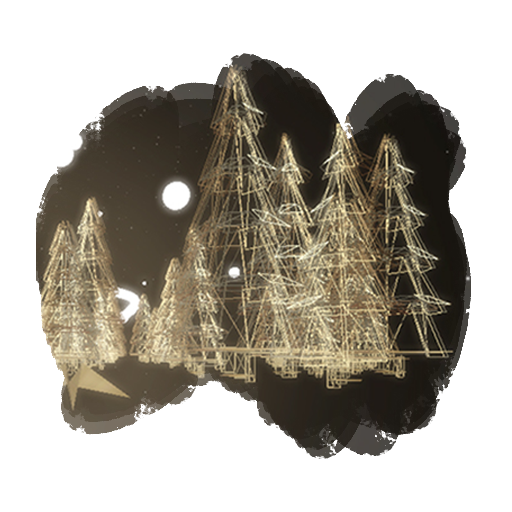
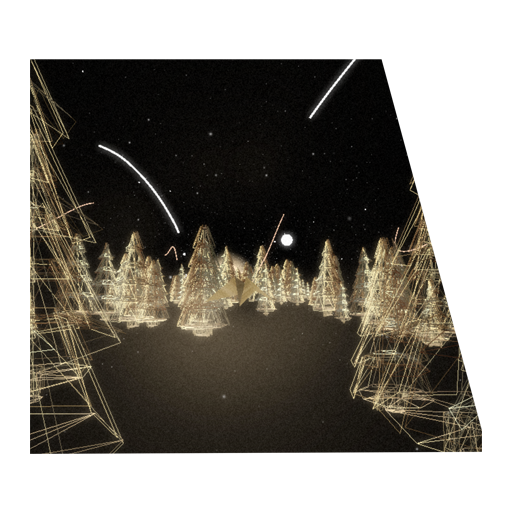
Updates

diff --git a/src/views/desktop/ProjectView/index.js b/src/views/desktop/ProjectView/index.js
@@ -31,6 +31,7 @@ export default class DesktopProjectView {
       link: this._el.querySelector('.js-project__link'),
       close: this._el.querySelector('.js-project__close'),
       loading: this._el.querySelector('.js-project__loading'),
+      back: this._el.querySelector('.js-project__back'),
       medias: [],
     };
 
@@ -47,11 +48,13 @@ export default class DesktopProjectView {
     this._easing = 0.2;
 
     this._needsUpdate = false;
+    this._backShowed = false;
 
     this._setupEvents();
   }
 
   _setupEvents() {
+    this._ui.back.addEventListener('click', this._onBackClick);
     Signals.onResize.add(this._onResize);
     Signals.onScrollWheel.add(this._onScrollWheel);
   }
@@ -266,6 +269,11 @@ export default class DesktopProjectView {
   // Events --------------------------------------------------------------------
 
   @autobind
+  _onBackClick() {
+    States.router.navigateTo(pages.HOME);
+  }
+
+  @autobind
   _onResize(vw, vh) {
     this.resize(vw, vh);
   }
@@ -292,6 +300,36 @@ export default class DesktopProjectView {
 
       this._deltaTargetY -= event.deltaMode === 1 ? event.deltaY * 20 : event.deltaY * 0.5;
       this._deltaTargetY = Math.max( -max, Math.min( 0, this._deltaTargetY ) );
+
+      if (Math.abs(max) - Math.abs(this._deltaTargetY) < 300 && !this._backShowed) {
+        this._ui.back.style.display = 'block';
+        TweenLite.killTweensOf(this._ui.back);
+        TweenLite.to(
+          this._ui.back,
+          0.8,
+          {
+            opacity: 0.7,
+            ease: 'Power2.easeOut',
+          },
+        );
+
+        this._backShowed = true;
+      } else if (Math.abs(max) - Math.abs(this._deltaTargetY) >= 300 && this._backShowed) {
+        TweenLite.killTweensOf(this._ui.back);
+        TweenLite.to(
+          this._ui.back,
+          0.8,
+          {
+            opacity: 0,
+            ease: 'Power2.easeOut',
+            onComplete: () => {
+              this._ui.back.style.display = 'none';
+            },
+          },
+        );
+
+        this._backShowed = false;
+      }
 
       this._easing = event.deltaMode === 1 ? 0.05 : 0.2;
 

diff --git a/src/views/desktop/ProjectView/project_view.scss b/src/views/desktop/ProjectView/project_view.scss
@@ -30,6 +30,22 @@
     background-color: white;
   }
 
+  .project__back {
+    position: fixed;
+    left: 50%;
+    bottom: 5vh;
+    z-index: $zindex-3;
+    transform: translateX(-50%);
+    display: none;
+    opacity: 0;
+    font-size: 2rem;
+    cursor: pointer;
+
+    &:hover {
+      opacity: 1 !important;
+    }
+  }
+
   .project__aside {
     position: relative;
     font-size: 2rem;

diff --git a/src/views/desktop/WebGL/meshes/Cloud/index.js b/src/views/desktop/WebGL/meshes/Cloud/index.js
@@ -124,7 +124,7 @@ export default class Cloud extends THREE.Object3D {
   resize(camera) {
     const perspectiveSize = getPerspectiveSize(camera, Math.abs(camera.position.z - this.position.z));
 
-    this.scale.set(perspectiveSize.width * 1.3, perspectiveSize.height * 1.3, 1);
+    this.scale.set(perspectiveSize.width * 1.4, perspectiveSize.height * 1.4, 1);
   }
 
   // Update -------

diff --git a/src/views/desktop/ProjectView/project_view.tpl.html b/src/views/desktop/ProjectView/project_view.tpl.html
@@ -2,6 +2,7 @@
 
   <div class="js-project__close project__close"></div>
   <div class="js-project__loading project__loading"></div>
+  <div class="js-project__back project__back">Close project</div>
 
   <div class="project__aside">
     <div class="js-project__date project__date"></div>

diff --git a/src/views/desktop/UIHome/Title/title.scss b/src/views/desktop/UIHome/Title/title.scss
@@ -7,6 +7,13 @@
   top: 6rem;
   line-height: 3.2rem;
   cursor: pointer;
+  opacity: 0.7;
+  transition: opacity 0.2s ease-out;
+  will-change: opacity;
+
+  &:hover {
+    opacity: 1;
+  }
 }
 
   .title__job {
